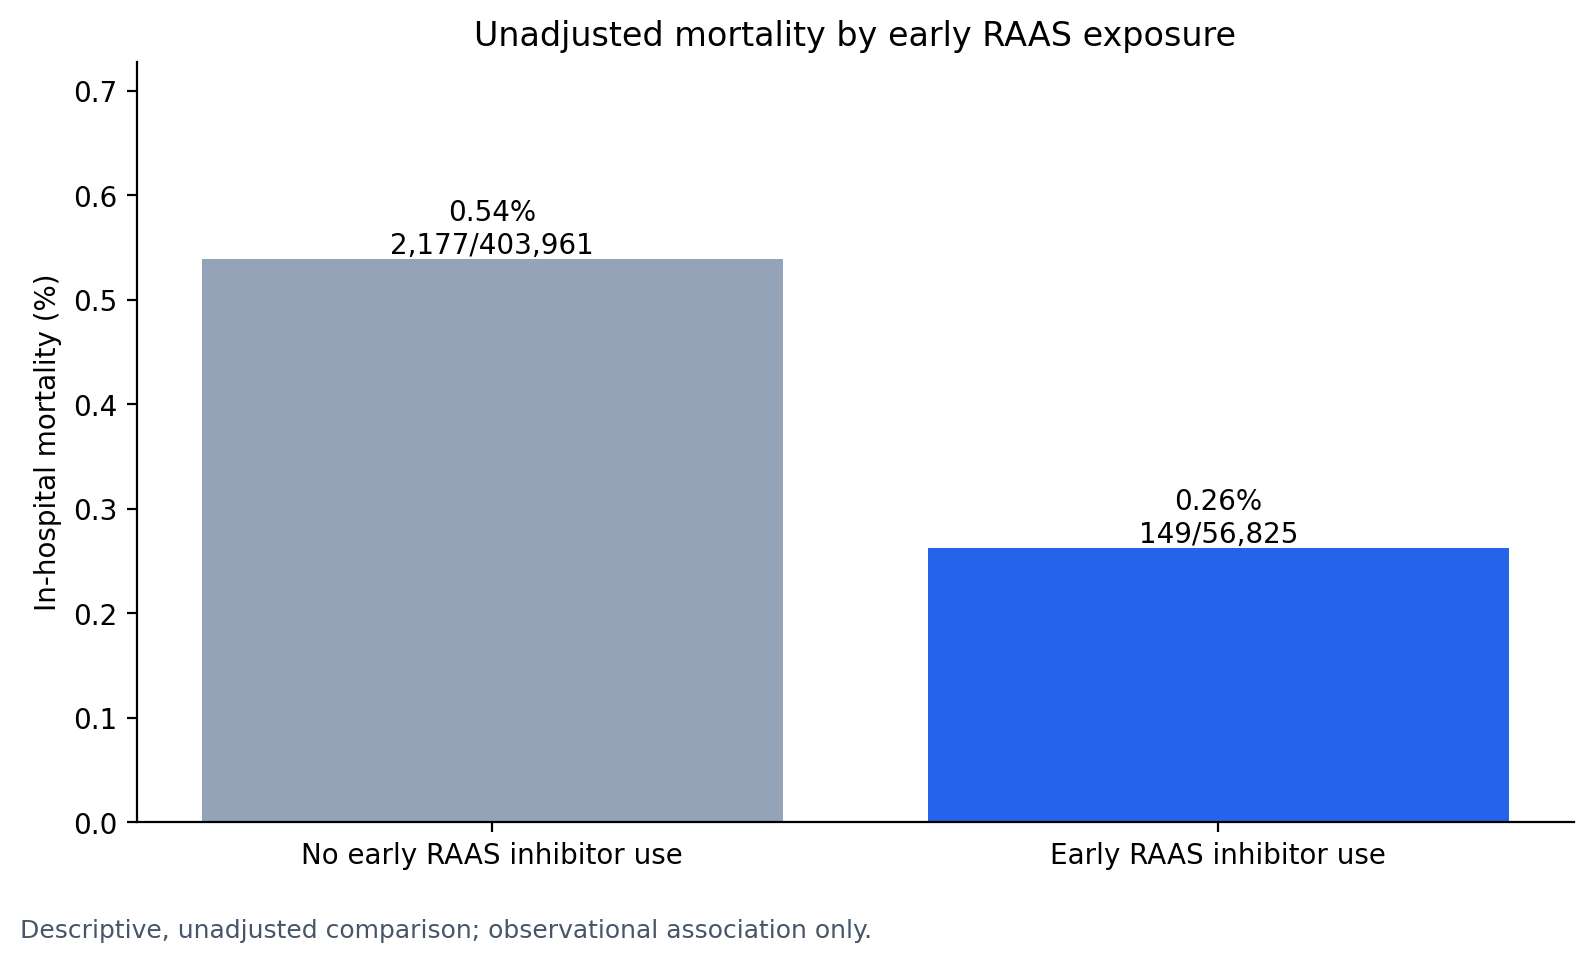
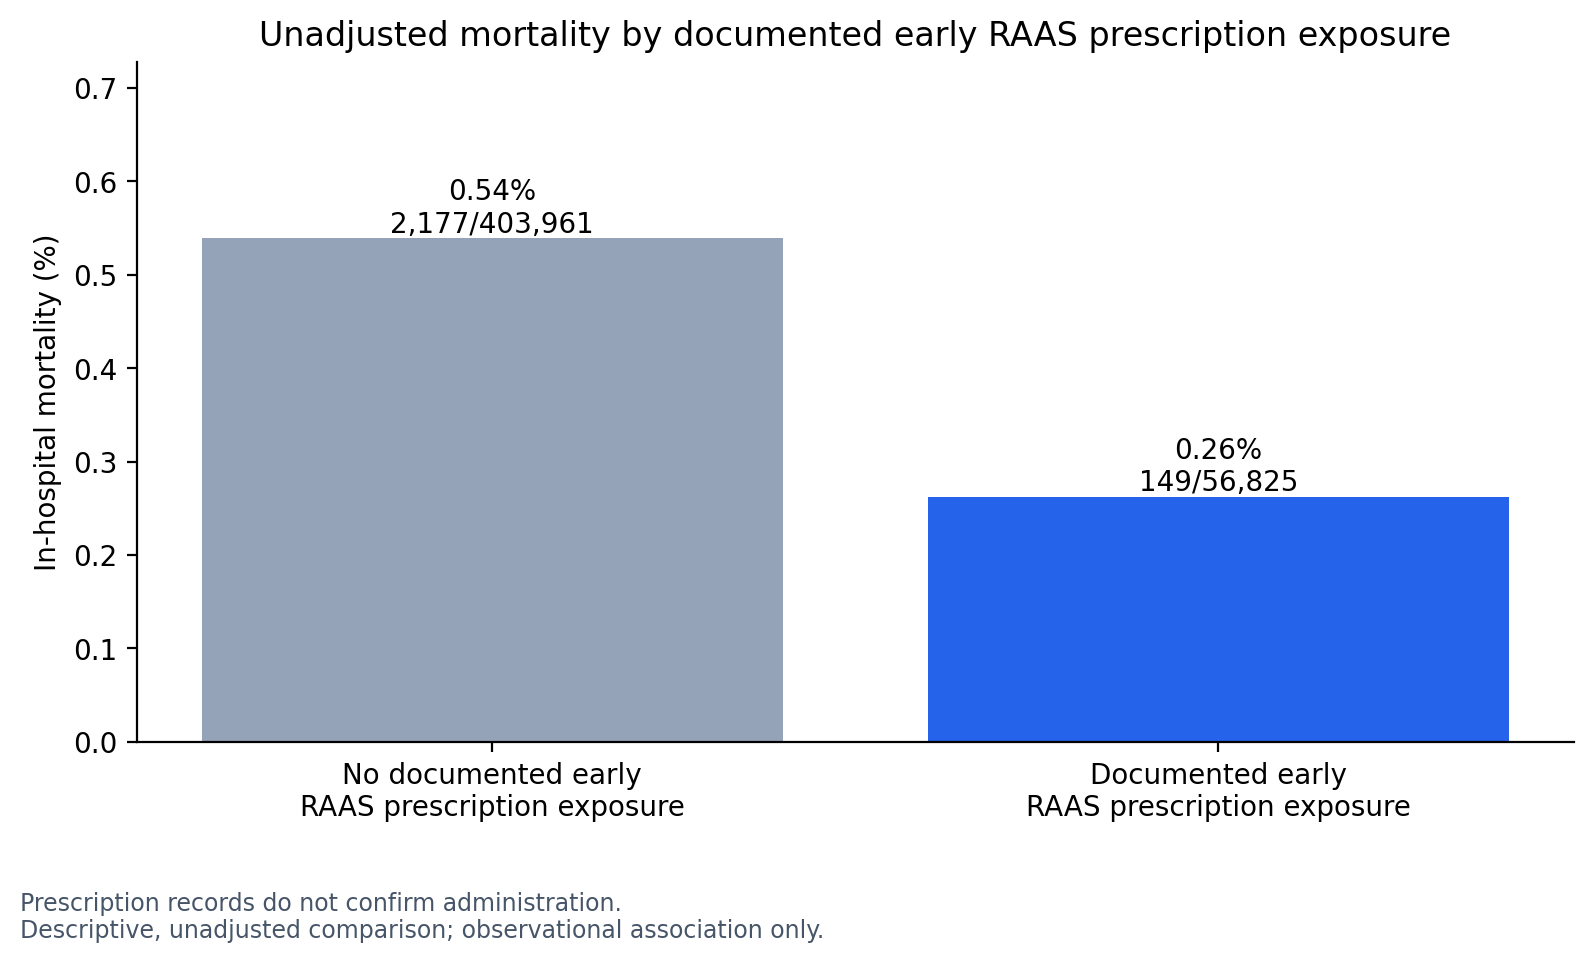
Clarify prescription-exposure plot and separate workflow branches

diff --git a/docs/reports/nonicu_raas_mortality_report.html b/docs/reports/nonicu_raas_mortality_report.html
@@ -112,12 +112,12 @@ ul.task-list li input[type="checkbox"] {
 </section>
 <section id="reproducible-workflow" class="level2" data-number="2">
 <h2 data-number="2" class="anchored" data-anchor-id="reproducible-workflow"><span class="header-section-number">2</span> Reproducible Workflow</h2>
-<p>The association workflow below separates data construction, model estimation, visualization, and validation. The additional prediction-time branch starts from adult base admissions and native transfers/ICU/order records; it does not use the future entire-stay ICU exclusion shown in the original association lineage. The analytic sequence starts with an adult hospital admission cohort, excludes ICU-associated admissions, classifies documented ACE inhibitor or ARB prescription exposure from records with start times within 24 hours, fits adjusted outcome models, and checks aggregate outputs and numerical diagnostics in Python.</p>
-<p>The key design choice is that the fixed non-ICU cohort is constructed before exposure definition or outcome modeling. The SQL eligibility rule does not use the prescription-exposure flag, and downstream outputs are traceable to one admission-level table. Excluding ICU use over the entire admission can still condition on post-admission events; this procedural ordering does not establish statistical independence or remove selection bias.</p>
+<p>The portfolio has two separate branches. The original association workflow (01–04b) excludes ICU use over the entire admission and defines documented ACE inhibitor or ARB prescription exposure from 0–&lt;24-hour start times. Supplementary Firth models estimate ORs; a separate unweighted L2 model estimates risks/AME, and another classifier evaluates retrospective discrimination. The additional prediction-time branch (04c) starts from adult base admissions and native transfer/ICU/order records. It confirms ward location, survival and continued hospitalization at admission or 24 hours, retains later ICU transfers and evaluates subsequent in-hospital death through discharge.</p>
+<p>In the original association branch, the fixed non-ICU cohort is constructed before exposure definition or outcome modeling. The SQL eligibility rule does not use the prescription-exposure flag, and downstream outputs are traceable to one admission-level table. Excluding ICU use over the entire admission can still condition on post-admission events; this procedural ordering does not establish statistical independence or remove selection bias.</p>
 <figure class="figure">
-<a href="../assets/workflow_diagram.svg" target="_blank" rel="noopener"> <img src="../assets/workflow_diagram.svg" class="img-fluid figure-img" style="width:80%" alt="End-to-end cohort construction and analysis workflow diagram."> </a>
+<a href="../assets/workflow_diagram.svg" target="_blank" rel="noopener"> <img src="../assets/workflow_diagram.svg" class="img-fluid figure-img" style="width:100%" alt="Separate original association and additional prediction-time workflows, with distinct cohorts and estimators."> </a>
 <figcaption>
-End-to-end cohort construction and analysis workflow. <a href="../assets/workflow_diagram.svg" target="_blank" rel="noopener">Open full-size workflow diagram</a>.
+Separate original association and additional prediction-time workflows. <a href="../assets/workflow_diagram.svg" target="_blank" rel="noopener">Open full-size workflow diagram</a>.
 </figcaption>
 </figure>
 <section id="source-tables-to-analysis-dataset" class="level3" data-number="2.1">

diff --git a/docs/FIGURE_REPRODUCIBILITY.md b/docs/FIGURE_REPRODUCIBILITY.md
@@ -16,9 +16,11 @@ Notebook-generated figures are written to stable paths under `assets/`. Rerunnin
 
 The README emphasizes the clinical result flow rather than validation visuals, so it displays the unadjusted mortality, age-specific adjusted predicted-risk difference, and 24-hour landmark sensitivity figures.
 
-## Manually Curated Architecture Figure
+## Manually Curated Architecture Figures
 
 `assets/nonicu_table_lineage_construction.svg` is a manually curated source-table-to-analysis-dataset lineage figure used in the Quarto report. It is not generated by an analysis notebook and contains no patient-level data. It documents table provenance and the analysis workflow, and should be refreshed manually if the SQL table structure or report architecture changes.
+
+`assets/workflow_diagram.svg` is the manually maintained overview used in the README and report. It separates the original association cohort from the additional time-specific 04c cohorts, Firth ORs from unweighted L2 risks/AME, and retrospective discrimination from prediction-time evaluation. Edit this repo-native SVG when the workflow changes; keep its synchronized `docs/assets/` copy current.
 
 ## Refresh Workflow
 
@@ -38,3 +40,7 @@ The README figures summarize observational associations based on documented inpa
 
 
 The additional notebook 04c exports `assets/prediction_time_calibration.png` from aggregate time-specific holdout bins. The Quarto post-render step synchronizes it to `docs/assets/`. It displays separate ward-confirmed admission/24h populations with held-out-patient intervals conditional on fitted models; see [prediction validation](PREDICTION_TIME_VALIDATION.md).
+
+## Presentation update (2026-11-18)
+
+The crude mortality plot now labels groups as documented early RAAS prescription exposure rather than inhibitor use and explicitly states that records do not confirm administration. Its 04a plotting cell was selectively rerun from the existing public `unadjusted_outcomes.csv`; no source query or model refit was performed. Aggregate values, exposure/cohort rules and the historical full-execution receipts are unchanged. The workflow SVG now shows both analysis branches and their separate estimators; README/report descriptions and publication copies are synchronized. This presentation update does not constitute another complete clinical Run All.

diff --git a/docs/CLINICAL_REEXECUTION_615de01.md b/docs/CLINICAL_REEXECUTION_615de01.md
@@ -40,3 +40,7 @@ The clean baseline working tree was recorded before execution. The 23 pre-existi
 Quarto generation, resource/aggregate consistency checks, deployment and live visual inspection are distinct release checks. A public HTTPS visual inspection of baseline 615de01 confirmed the relevant inference/discrimination/risk sections; the prior file:// restriction was not bypassed. Release status for the updated page must be confirmed after publication.
 
 Machine-readable evidence: `python/outputs/clinical_reexecution_615de01.json` and `prediction_time_execution.json`. No prospective/external clinical validation is claimed.
+
+## Subsequent figure-label update
+
+The later presentation update changes only the 04a mortality plotting cell and the manually maintained workflow diagram. That cell was selectively rerun from the public aggregate mortality CSV; current plot labels describe prescription records rather than administration. The original source-hash and full-Run-All evidence above applies to its recorded snapshot. No exposure/cohort/model definition or aggregate estimate changed; see [figure reproduction notes](FIGURE_REPRODUCIBILITY.md#presentation-update-2026-11-18).

diff --git a/README.md b/README.md
@@ -42,7 +42,9 @@ For a quick review:
 
 ## Workflow
 
-![Analysis workflow](assets/workflow_diagram.svg)
+![Separate association and prediction-time workflows](assets/workflow_diagram.svg)
+
+The original association branch and additional 04c prediction branch use different cohorts and estimands. Firth provides supplementary ORs; a separate unweighted L2 model provides risks/AME. Prediction eligibility uses information through each prediction time and retains later ICU transfers.
 
 For the detailed source-table-to-analysis-dataset lineage, see the [Quarto HTML report section on source tables and project-created analysis tables](https://makotoy56.github.io/mimic-iv-nonicu-medication/reports/nonicu_raas_mortality_report.html#source-tables-to-analysis-dataset).
 
